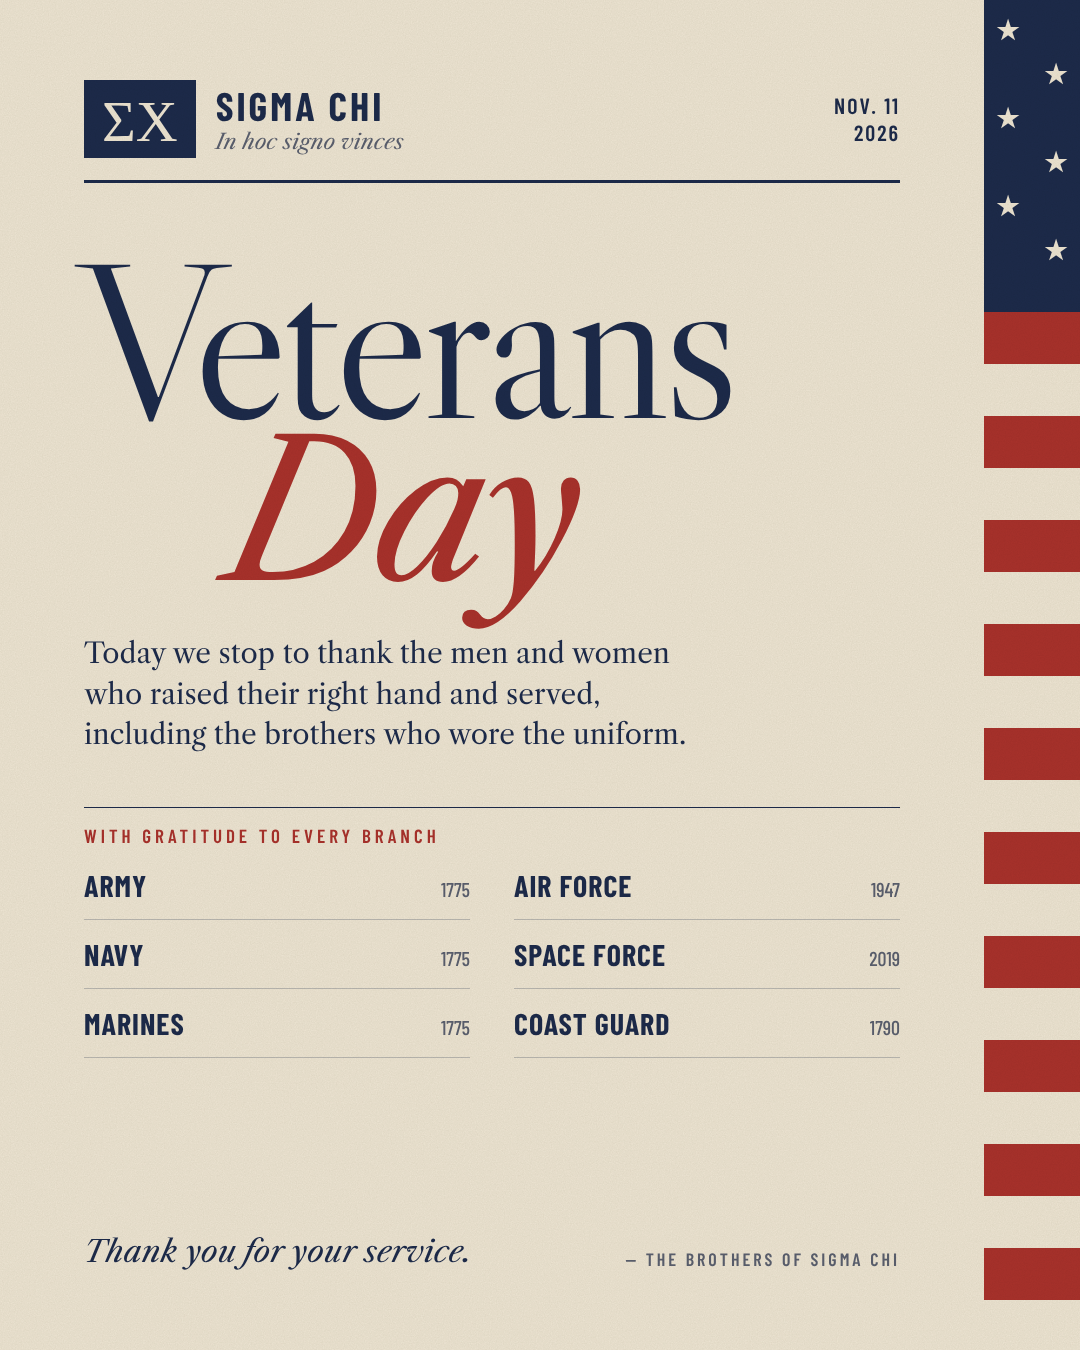
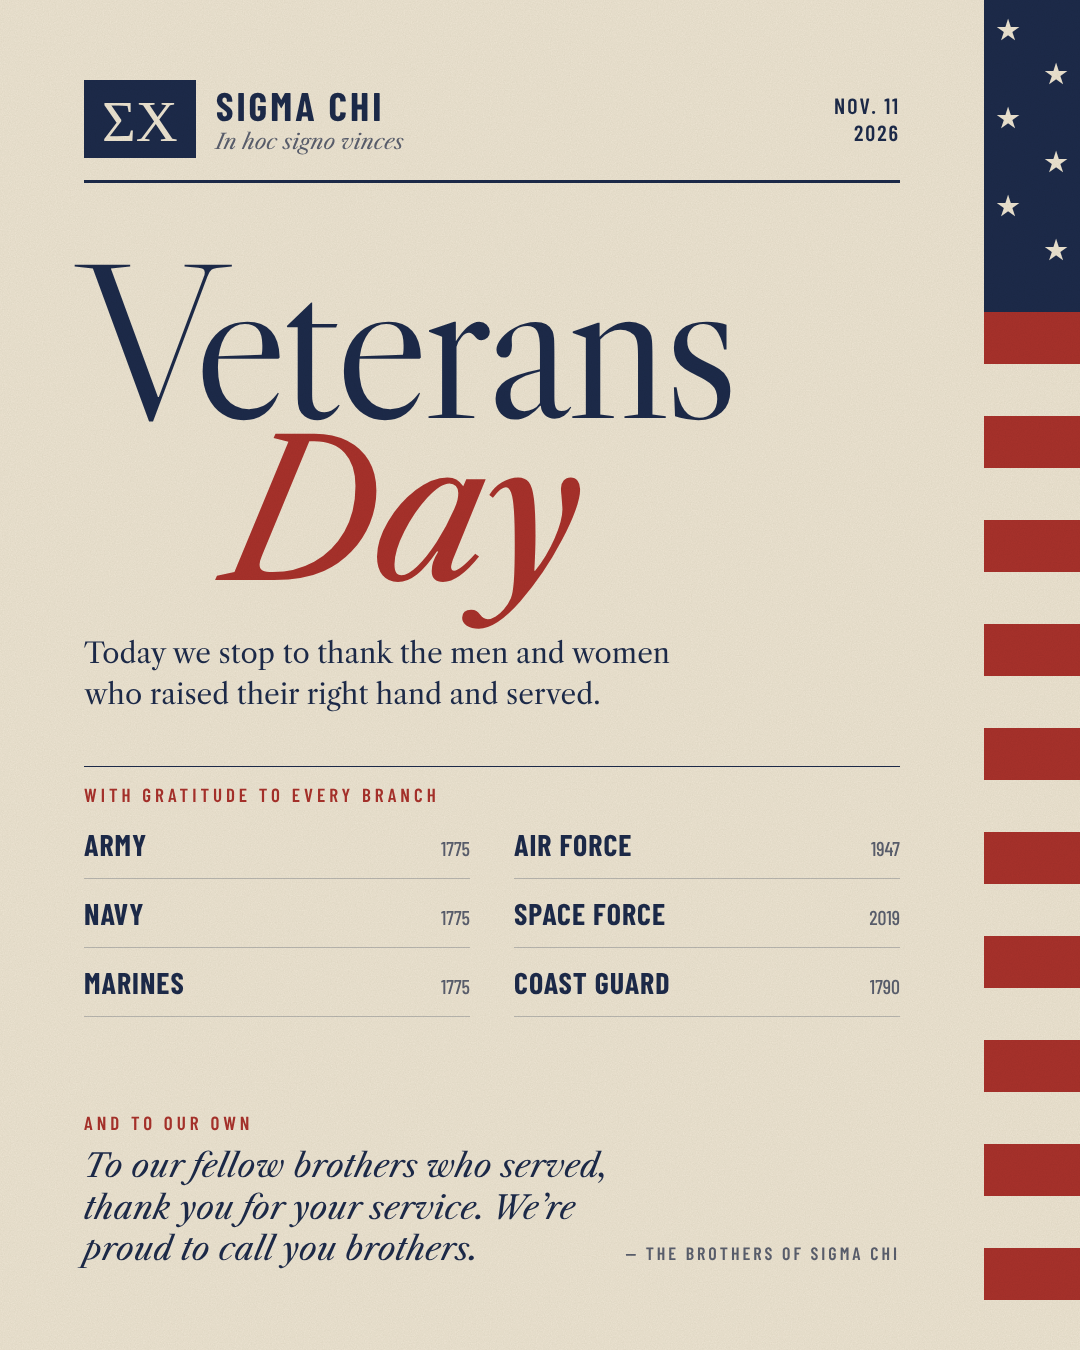
Add thank-you to fellow brothers who served
Claude-Session: https://claude.ai/code/session_017HSKiQSUXJQXPZBDeM5kjr

diff --git a/veterans-day/post.html b/veterans-day/post.html
@@ -28,8 +28,9 @@ h1 em{display:block;font-family:"Libre Caslon Text";font-style:italic;color:var(
 .row i{font-size:18px;color:var(--soft);flex:1}
 .row span{font-family:"Barlow Condensed";font-weight:500;font-size:20px;color:var(--soft)}
 .sign{position:absolute;bottom:0;left:0;right:0;display:flex;justify-content:space-between;align-items:flex-end}
-.sign p{font-style:italic;font-size:30px}
-.sign small{font-family:"Barlow Condensed";font-weight:600;font-size:18px;letter-spacing:3px;text-transform:uppercase;color:var(--soft)}
+.sign p{font-style:italic;font-size:32px;line-height:1.3;max-width:580px}
+.kick{display:block;font-family:"Barlow Condensed";font-style:normal;font-weight:600;font-size:19px;letter-spacing:4px;text-transform:uppercase;color:var(--red);margin-bottom:10px}
+.sign small{white-space:nowrap;margin-bottom:6px;font-family:"Barlow Condensed";font-weight:600;font-size:18px;letter-spacing:3px;text-transform:uppercase;color:var(--soft)}
 </style></head>
 <body><div class="post">
 <div class="flag"><div class="canton"><svg viewBox="0 0 96 300" width="96" height="300"><text x="24" y="40" font-size="26" fill="#ece4d2" text-anchor="middle">★</text><text x="72" y="84" font-size="26" fill="#ece4d2" text-anchor="middle">★</text><text x="24" y="128" font-size="26" fill="#ece4d2" text-anchor="middle">★</text><text x="72" y="172" font-size="26" fill="#ece4d2" text-anchor="middle">★</text><text x="24" y="216" font-size="26" fill="#ece4d2" text-anchor="middle">★</text><text x="72" y="260" font-size="26" fill="#ece4d2" text-anchor="middle">★</text></svg></div></div>
@@ -42,7 +43,7 @@ h1 em{display:block;font-family:"Libre Caslon Text";font-style:italic;color:var(
 
   <h1>Veterans<em>Day</em></h1>
 
-  <p class="lede">Today we stop to thank the men and women who raised their right hand and served, including the brothers who wore the uniform.</p>
+  <p class="lede">Today we stop to thank the men and women who raised their right hand and served.</p>
 
   <div class="roll">
     <h2>With gratitude to every branch</h2>
@@ -57,7 +58,7 @@ h1 em{display:block;font-family:"Libre Caslon Text";font-style:italic;color:var(
   </div>
 
   <div class="sign">
-    <p>Thank you for your service.</p>
+    <p><span class="kick">And to our own</span>To our fellow brothers who served, thank you for your service. We&rsquo;re proud to call you brothers.</p>
     <small>— The Brothers of Sigma Chi</small>
   </div>
 </div>
